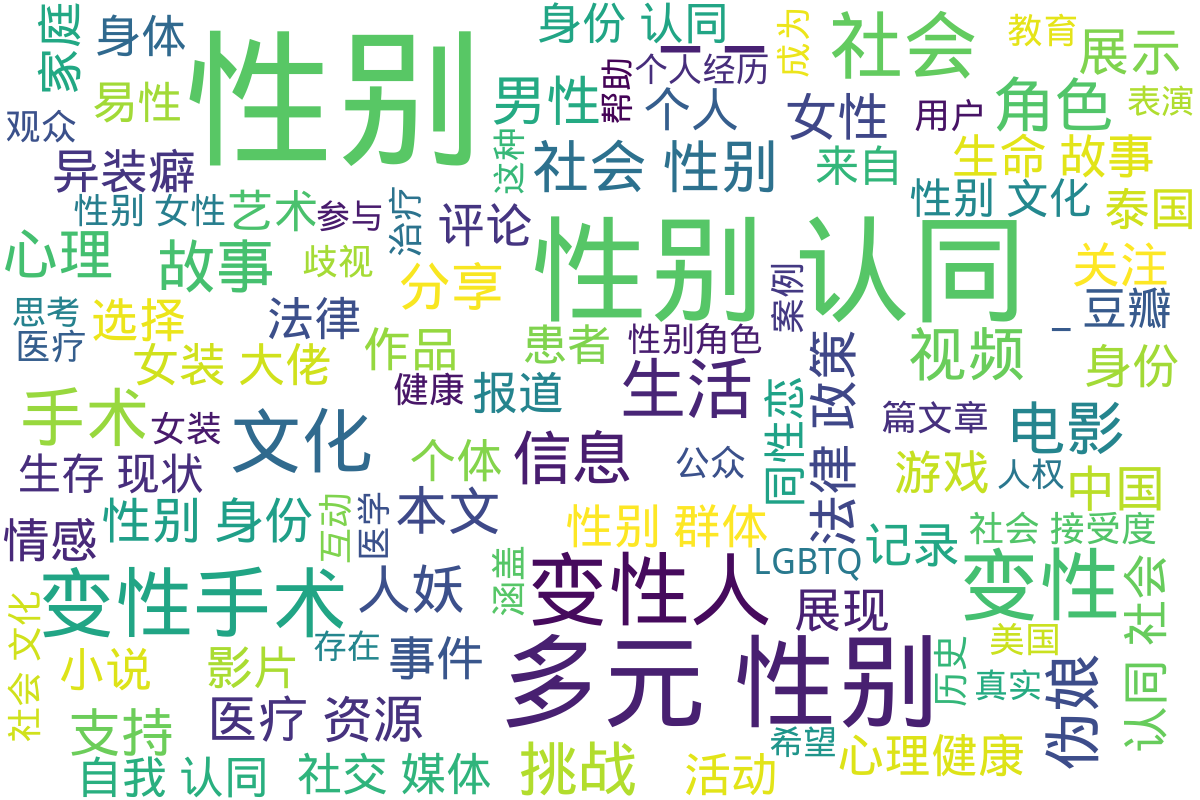
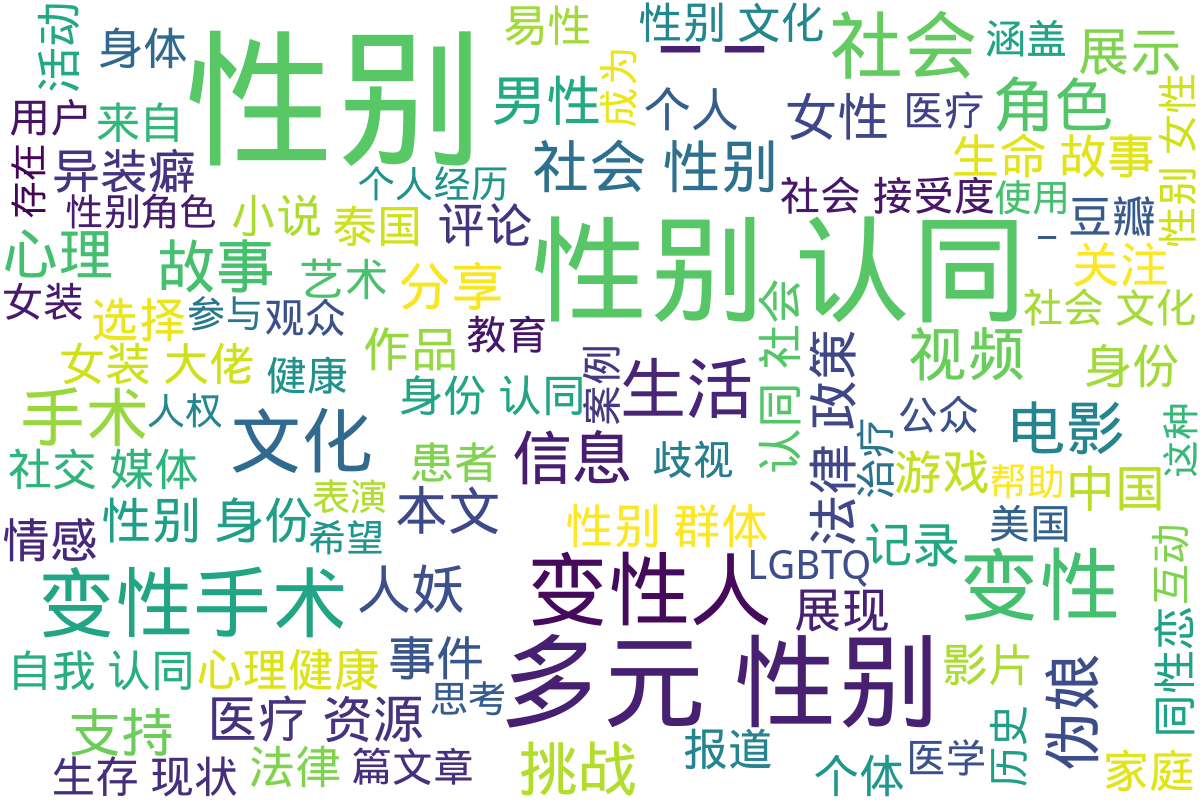
update

diff --git a/未分类/news_跨性别者_标签-_网易出品.md b/未分类/news_跨性别者_标签-_网易出品.md
@@ -1,0 +1,205 @@
+# 跨性别者
+
+## 正文 { data-search-exclude }
+
+
+相关内容
+
+![特朗普承诺在美国禁止对未成年人进行变性手术](https://nimg.ws.126.net/?url=https%3A%2F%2Fdingyue.ws.126.net%2F2024%2F1110%2Fe643cd3cj00smp48u00b7d000iw00frp.jpg&thumbnail=140x88&quality=95&type=jpg)
+
+### [特朗普承诺在美国禁止对未成年人进行变性手术](https://www.163.com/dy/article/JGJMQ2O305528J01.html)
+
+[网易号](https://dy.163.com)
+
+桂系007 2024-11-10
+
+![不敢相信自己的眼睛，一个美国男人为什么非要把自己折腾成这样？](https://nimg.ws.126.net/?url=https%3A%2F%2Fdingyue.ws.126.net%2F2024%2F1109%2F5fda7181j00smoqgf000td000hs00bvg.jpg&thumbnail=140x88&quality=95&type=jpg)
+
+### [不敢相信自己的眼睛，一个美国男人为什么非要把自己折腾成这样？](https://www.163.com/dy/article/JGJ5Q3Q50552F71X.html)
+
+[网易号](https://dy.163.com)
+
+科学发掘 2024-11-09
+
+![在西方修成正果的LGBT，中国可以有，但绝不允许成精！](https://nimg.ws.126.net/?url=https%3A%2F%2Fdingyue.ws.126.net%2F2024%2F1108%2Fe3297964j00smmoir000xd000hc008og.jpg&thumbnail=140x88&quality=95&type=jpg)
+
+### [在西方修成正果的LGBT，中国可以有，但绝不允许成精！](https://www.163.com/dy/article/JGGADTV305566SDB.html)
+
+[网易号](https://dy.163.com)
+
+记录生活日常阿蜴 2024-11-08
+
+![女子游泳队助力特朗普，呼吁禁止跨性别运动员参与女性体育活动](https://nimg.ws.126.net/?url=https%3A%2F%2Fdingyue.ws.126.net%2F2024%2F1105%2F96eac59ej00smgsxj0017d000hs00bum.jpg&thumbnail=190x120&quality=95&type=jpg)
+
+### [女子游泳队助力特朗普，呼吁禁止跨性别运动员参与女性体育活动](https://www.163.com/dy/article/JG84TNBI0552M0MJ.html)
+
+[网易号](https://dy.163.com)
+
+看晓天下事 2024-11-05
+
+### [《龙腾世纪：影障守护者》加入系列首个非二元性别角色](https://www.163.com/dy/article/JG03FU4D0526D8LR.html)
+
+[网易号](https://dy.163.com)
+
+3DMGAME官方号 2024-11-02
+
+![特朗普: 上帝只创造了男女性别两种，不应存在变性人和LGBTQ](https://nimg.ws.126.net/?url=https%3A%2F%2Fdingyue.ws.126.net%2F2024%2F1101%2Fb254626aj00sm9zi0000vd000px00gjm.jpg&thumbnail=140x88&quality=95&type=jpg)
+
+### [特朗普: 上帝只创造了男女性别两种，不应存在变性人和LGBTQ](https://www.163.com/dy/article/JFUM4K6S0553ESUC.html)
+
+[网易号](https://dy.163.com)
+
+现代春秋 2024-11-01
+
+![LGBT击败了哈里斯](https://nimg.ws.126.net/?url=https%3A%2F%2Fdingyue.ws.126.net%2F2024%2F1028%2F16506df9j00sm2d0r00k3d000v900gjp.jpg&thumbnail=190x120&quality=95&type=jpg)
+
+### [LGBT击败了哈里斯](https://www.163.com/dy/article/JFK28AH605567PPU.html)
+
+[网易号](https://dy.163.com)
+
+微能量 2024-10-28
+
+![易建联事件女主新料：住酒店月花20万，注射雌性激素后长期被PUA](https://nimg.ws.126.net/?url=https%3A%2F%2Fdingyue.ws.126.net%2F2024%2F1022%2Fe0751b84j00slqhm20016d000t300exp.jpg&thumbnail=140x88&quality=95&type=jpg)
+
+### [易建联事件女主新料：住酒店月花20万，注射雌性激素后长期被PUA](https://www.163.com/dy/article/JF3I011M0553TGUG.html)
+
+[网易号](https://dy.163.com)
+
+鑫鑫说说 2024-10-22
+
+### [和易建联在一起得京城桥接是TS，TS和男性**算违法吗？](https://www.163.com/dy/article/JEVJ3CVH05564H5T.html)
+
+[网易号](https://dy.163.com)
+
+张凤侠的乡村小卖部01 2024-10-20
+
+![太疯狂！易建联女主越扒越有，检查艾滋照曝光、失禁后拉金主床上](https://nimg.ws.126.net/?url=https%3A%2F%2Fdingyue.ws.126.net%2F2024%2F1019%2Fa51f3600j00slk7i40014d000sg00g0m.jpg&thumbnail=190x120&quality=95&type=jpg)
+
+### [太疯狂！易建联女主越扒越有，检查艾滋照曝光、失禁后拉金主床上](https://www.163.com/dy/article/JESBNK7E0556502C.html)
+
+[网易号](https://dy.163.com)
+
+暖心说娱乐 2024-10-19
+
+### [荷兰中央统计局：荷兰约有270万LGBTQIA群体](https://www.163.com/dy/article/JEQQI7GD05387KYA.html)
+
+[网易号](https://dy.163.com)
+
+中荷商报 2024-10-19
+
+### [网曝易建联出轨，不雅照流出！女方身份被扒：疑似在新加坡留学、是跨性别者...](https://www.163.com/dy/article/JEQ4KH1L0511B3FV.html)
+
+[网易号](https://dy.163.com)
+
+数局 2024-10-18
+
+### [易建联PC，单价过万，女方竟还是跨性别者！一细节曝光真相](https://www.163.com/dy/article/JEPEDTB00553VIVI.html)
+
+[网易号](https://dy.163.com)
+
+温柔看世界 2024-10-18
+
+### [易建联疑似嫖娼被曝，跨性别者举身份证爆料！鹿晗邓超恐受牵连](https://www.163.com/dy/article/JENRNUNC055650SH.html)
+
+[网易号](https://dy.163.com)
+
+小邵说剧 2024-10-17
+
+### [网传对象为京城乔姐，跨性别者！多个品牌删除与易建联的合作内容](https://www.163.com/dy/article/JENQQRM005568YEK.html)
+
+[网易号](https://dy.163.com)
+
+青青子衿 2024-10-17
+
+![热搜霸榜的「TS」到底是什么鬼？](https://nimg.ws.126.net/?url=https%3A%2F%2Fdingyue.ws.126.net%2F2024%2F1017%2F55d038c9j00slhg4600ibd000iq00o2m.jpg&thumbnail=140x88&quality=95&type=jpg)
+
+### [热搜霸榜的「TS」到底是什么鬼？](https://www.163.com/dy/article/JENN9GCV05319HYL.html)
+
+[网易号](https://dy.163.com)
+
+病理青年 2024-10-17
+
+### [易建联疑似嫖娼跨性别者，对方照片被爆，称收了1500美元很兴奋](https://www.163.com/dy/article/JENI2J3V05565FXO.html)
+
+[网易号](https://dy.163.com)
+
+青笙挽歌 2024-10-17
+
+### [中国男篮，吃瓜现场？易建联涉嫌嫉妒，并涉及到一位跨性别者](https://www.163.com/dy/article/JEMU482M0529T9S4.html)
+
+[网易号](https://dy.163.com)
+
+开成运动会 2024-10-17
+
+### [教宗会见跨性别者和双性人](https://www.163.com/dy/article/JEH6SAHJ0536QGL3.html)
+
+[网易号](https://dy.163.com)
+
+意讯 2024-10-15
+
+### [这类年轻人最易遭到校园霸凌，八成有过轻生念头](https://www.163.com/dy/article/JECE4V76052880KM.html)
+
+[网易号](https://dy.163.com)
+
+多元故事荟 2024-10-13
+
+### [美国一项社会调查显示：3.3%的美国高中生自认为是跨性别者](https://www.163.com/dy/article/JEAIJFE305563UZC.html)
+
+[网易号](https://dy.163.com)
+
+随波荡漾的漂流瓶 2024-10-12
+
+### [一个跨性别者的36年：完成了性别重置，拿到了男性身份证](https://www.163.com/dy/article/JE2A1U3Q052880KM.html)
+
+[网易号](https://dy.163.com)
+
+多元故事荟 2024-10-10
+
+### [谎言与孤独：一名28岁跨儿的缝合人生](https://www.163.com/dy/article/JE4L184V0556567S.html)
+
+[网易号](https://dy.163.com)
+
+荒野动物圈a 2024-10-10
+
+### [外媒：西班牙首支全跨性别足球队成立，将正式参加比赛](https://www.163.com/dy/article/JE06935A0549BAP0.html)
+
+[网易号](https://dy.163.com)
+
+懂球帝 2024-10-08
+
+### [促进出行安全，巴基斯坦推出首款跨性别者与女性专属打车软件](https://www.163.com/dy/article/JDDRSOTG052880KM.html)
+
+[网易号](https://dy.163.com)
+
+多元故事荟 2024-10-01
+
+### [芝加哥黑人跨性别女性遭枪杀，美国性别暴力升级，今年已致26死](https://www.163.com/dy/article/JD0N2STF052880KM.html)
+
+[网易号](https://dy.163.com)
+
+多元故事荟 2024-09-26
+<!-- tcd_original_link https://news.163.com/keywords/8/e/8de86027522b8005/1.html -->
+## 摘要与附加信息
+
+<!-- tcd_abstract -->
+本文档包含关于跨性别者的多篇新闻报道链接，反映了跨性别者在社交、法律和医疗等多个领域的现状。其中提到特朗普承诺禁止未成年人接受变性手术的消息，描绘了跨性别者在美国以及国际社会中所面临的挑战和争议。文件中列出的多个新闻标题触及了跨性别者在体育、法律、以及社会认同方面的各种讨论，例如女子游泳队呼吁禁止跨性别运动员参与女性体育活动，以及对跨性别者影响的深刻社会调查。此外，还有有关中国的跨性别者所面临的社会环境、文化认同等问题的反思与分析。文中展示的内容不仅涵盖了各类新闻，还涉及了关于跨性别者生存现状的真实记录和数据分析，是一个提供重要信息与观点的平台。
+<!-- tcd_abstract_end -->
+
+> 摘要与附加信息为自动生成，仅供检索与参考。如有错误或遗漏（未知），请协助编辑指正，不胜感激。
+
+### 附加信息 [Processed Page Metadata] { data-search-exclude }
+
+| Attribute       | Value                                  |
+|-----------------|----------------------------------------|
+| Filename        | news_跨性别者_标签-_网易出品.md                             |
+| Size            | 7182 bytes                           |
+| Archived Date   | 2024-11-12 14:08:52                             |
+| Original Link   | [https://news.163.com/keywords/8/e/8de86027522b8005/1.html](https://news.163.com/keywords/8/e/8de86027522b8005/1.html)                       |
+| Author          | 网易号                               |
+| Region          | 中国大陆                               |
+| Date            | 2024-11-10                                 |
+| Tags            | 跨性别, 特朗普, 变性手术, 性别认同, 社会歧视, 法律政策, 体育参与, 社会调查, 跨性别者生存现状                                 |
+| Evaluation            | [Unknown type(update needed)]                                 |
+<!-- tcd_table_end -->
+
+本文由跨性别中文数字档案馆归档整理，仅供浏览。版权归原作者所有。
